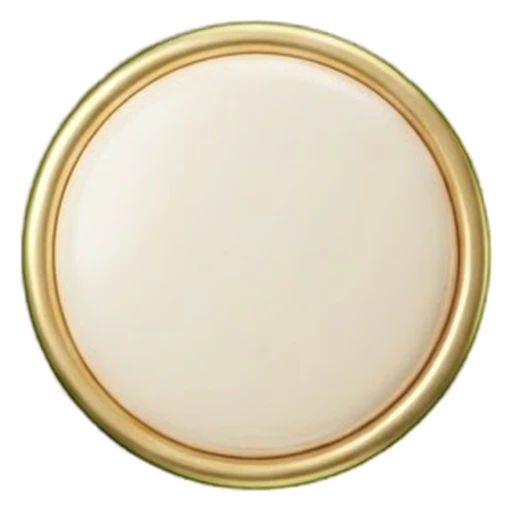
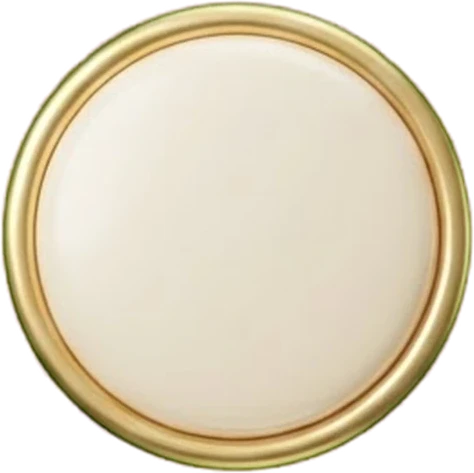
Wall of Fame look across the game: marble mode pages, gold/cream buttons, framed pop-ups, loading screen
- Quick Race / Online / Challenges pages sit on the marble background
- Main buttons use the gold pill, secondary the cream pill, selected options turn gold
- Pop-up cards (store, Guild Hall, settings, account...) use the cream-and-gold frame
- A loading screen with the golden checkered flag shows while the game starts
- UI cut-outs trimmed to their edges so they stretch cleanly

Claude-Session: https://claude.ai/code/session_01P2d23idmzn86QwCrrnwjqh

diff --git a/index.html b/index.html
@@ -484,8 +484,31 @@ html.cream .cel-gift{background:rgba(255,255,255,.55)!important;border-color:#d6
 #storeTabs button,#roomTabs button{display:grid;place-items:center;gap:2px;min-width:0;padding:5px 2px}#storeTabs,#roomTabs{min-width:0}#storeTabs{display:grid!important;grid-template-columns:repeat(6,minmax(0,1fr));width:100%}
 #storeTabs .tab-ico,#roomTabs .tab-ico{width:30px;height:30px;margin:0 auto}
 .info-home{position:absolute;left:10px;top:60px;z-index:3;width:36px;height:36px}
+
+/* ---------- Wall of Fame look for the rest of the game (img/ui) ---------- */
+/* mode pages: marble */
+html.home2-on #menu #d3Sheet.open{background:#efe7d8 url(img/ui/marble-bg.webp) center/cover no-repeat!important}
+/* buttons: gold for main actions, cream for the rest, gold when selected */
+html body :is(button.primary,.d3-gold,button.buy):not(.back-btn):not(.ico3d-btn):not(.h2-hot):not(.zd-w),
+html body #menu #d3Sheet .d3-tabbar button[aria-selected="true"],html body :is(.d3-pill,.seg button,.chip-btn,.set-tog)[aria-pressed="true"]{
+  background:none!important;border:2px solid transparent!important;border-image:url(img/ui/btn_gold.webp) 48 108 fill / 22% 22px / 0 stretch!important;box-shadow:none!important;border-radius:0!important}
+html body :is(button.ghost,.d3-pill,.chip-btn,.set-tog,#menu #d3Sheet .d3-tabbar button):not([aria-pressed="true"]):not([aria-selected="true"]):not(.back-btn):not(.ico3d-btn):not(.h2-hot){
+  background:none!important;border:2px solid transparent!important;border-image:url(img/ui/btn_cream.webp) 48 108 fill / 22% 22px / 0 stretch!important;box-shadow:none!important;border-radius:0!important}
+html body :is(button.primary,button.buy,button.ghost,.d3-pill):disabled{filter:grayscale(.85) brightness(.95);opacity:.7}
+html body :is(button.primary,.d3-gold,button.buy,button.ghost,.d3-pill):active:not(:disabled){transform:scale(.97)}
+/* pop-up cards: the cream-and-gold frame */
+html body :is(.store-card,.pause-card,.hub-card,.set-card,.acct-card,.rp-card,.podium-card){
+  background:none!important;border:2px solid transparent!important;border-image:url(img/ui/card_popup.webp) 100 fill / 40px / 0 stretch!important;box-shadow:0 14px 40px rgba(0,0,0,.35)!important;border-radius:0!important}
+/* loading screen */
+#boot{position:fixed;inset:0;z-index:99999;background:#efe7d8 url(img/ui/loading.webp) center/cover no-repeat;display:grid;align-content:end;justify-items:center;padding-bottom:max(14vh,90px);transition:opacity .5s}
+#boot.out{opacity:0;pointer-events:none}
+#boot .bt-bar{width:min(70vw,320px);height:16px;border-radius:999px;background:rgba(80,60,20,.25);box-shadow:inset 0 1px 3px rgba(0,0,0,.35),0 0 0 3px #d9a227;overflow:hidden}
+#boot .bt-bar i{display:block;height:100%;width:0;background:linear-gradient(180deg,#f8e19a,#c8921c);border-radius:999px;transition:width .3s}
+#boot .bt-tx{margin-top:10px;font:800 14px system-ui,sans-serif;color:#6b4a14;letter-spacing:.08em}
 </style>
 </head><body>
+<div id="boot" aria-label="Loading"><div class="bt-bar"><i id="btFill"></i></div><div class="bt-tx">LOADING…</div></div>
+<script>(function(){var f=document.getElementById('btFill'),p=8,t=setInterval(function(){p=Math.min(92,p+(100-p)*0.08);if(f)f.style.width=p+'%';},120);function done(){clearInterval(t);if(f)f.style.width='100%';setTimeout(function(){var b=document.getElementById('boot');if(b){b.classList.add('out');setTimeout(function(){b.remove();},600);}},450);}if(document.readyState==='complete')setTimeout(done,600);else window.addEventListener('load',function(){setTimeout(done,600);});setTimeout(done,9000);})();</script>
 <div id="gate" role="dialog" aria-label="Race Your Flag is private for now"><div class="gate-card"><img class="gate-ic" src="img/icons/tab_quick.webp" alt=""><h2>Race Your Flag</h2><p id="gateMsg">…</p><button class="primary" id="gateSign" hidden>Sign in</button><button class="ghost" id="gateOut" hidden>Sign out</button></div></div>
 <title>Race Your Flag</title>
 <link rel="preconnect" href="https://fonts.googleapis.com">
